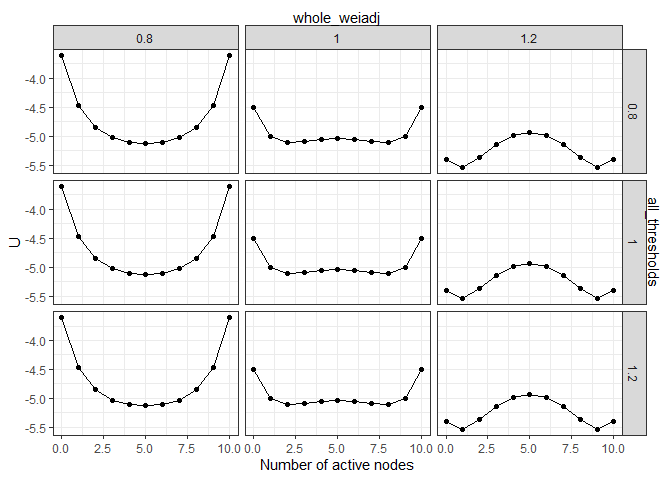
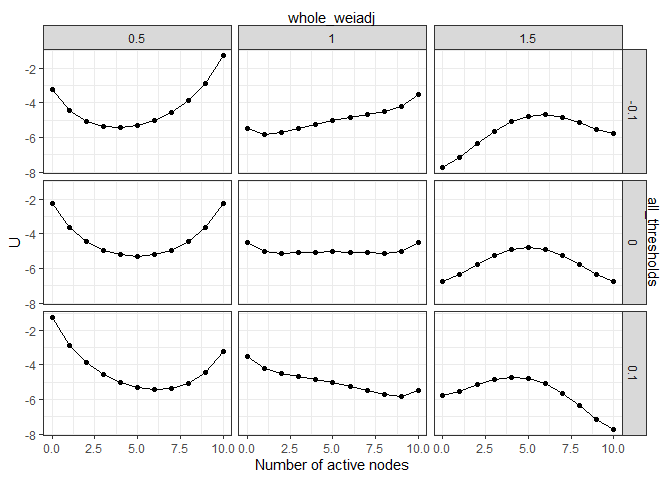
22.4.15.1
Some documentation

diff --git a/README.md b/README.md
@@ -1,12 +1,18 @@
 
 <!-- README.md is generated from README.Rmd. Please edit that file -->
 
-# Isinglandr <img src='man/figures/logo.png' align="right" height="138" />
+# `Isinglandr`: Landscape Construction and Simulation for Ising Networks <img src='man/figures/logo.png' align="right" height="138" />
 
 <!-- badges: start -->
 <!-- badges: end -->
 
-The goal of Isinglandr is to …
+A toolbox for constructing potential landscapes for Ising networks,
+which can be estimated by the `Isingfit` package
+<https://CRAN.R-project.org/package=IsingFit>. The landscapes preserve
+the steady-state distribution of the original model with Glauber
+dynamics (Glauber, 1963) <doi:10.1063/1.1703954> and can be used for
+visualizing and quantifying the stability of different activation states
+and visualizing the simulation process.
 
 ## Installation
 
@@ -55,8 +61,8 @@ plot(result3)
 ``` r
 ## Multiple networks together
 result4 <- make_Ising_grid(
-  all_thresholds(seq(0.8, 1.2, 0.2)),
-  whole_weiadj(seq(0.8, 1.2, 0.2)),
+  all_thresholds(seq(-0.1, 0.1, 0.1), .f = `+`),
+  whole_weiadj(seq(0.5, 1.5, 0.5)),
   m, w
 ) %>% make_2d_Isingland_matrix()
 plot(result4)
